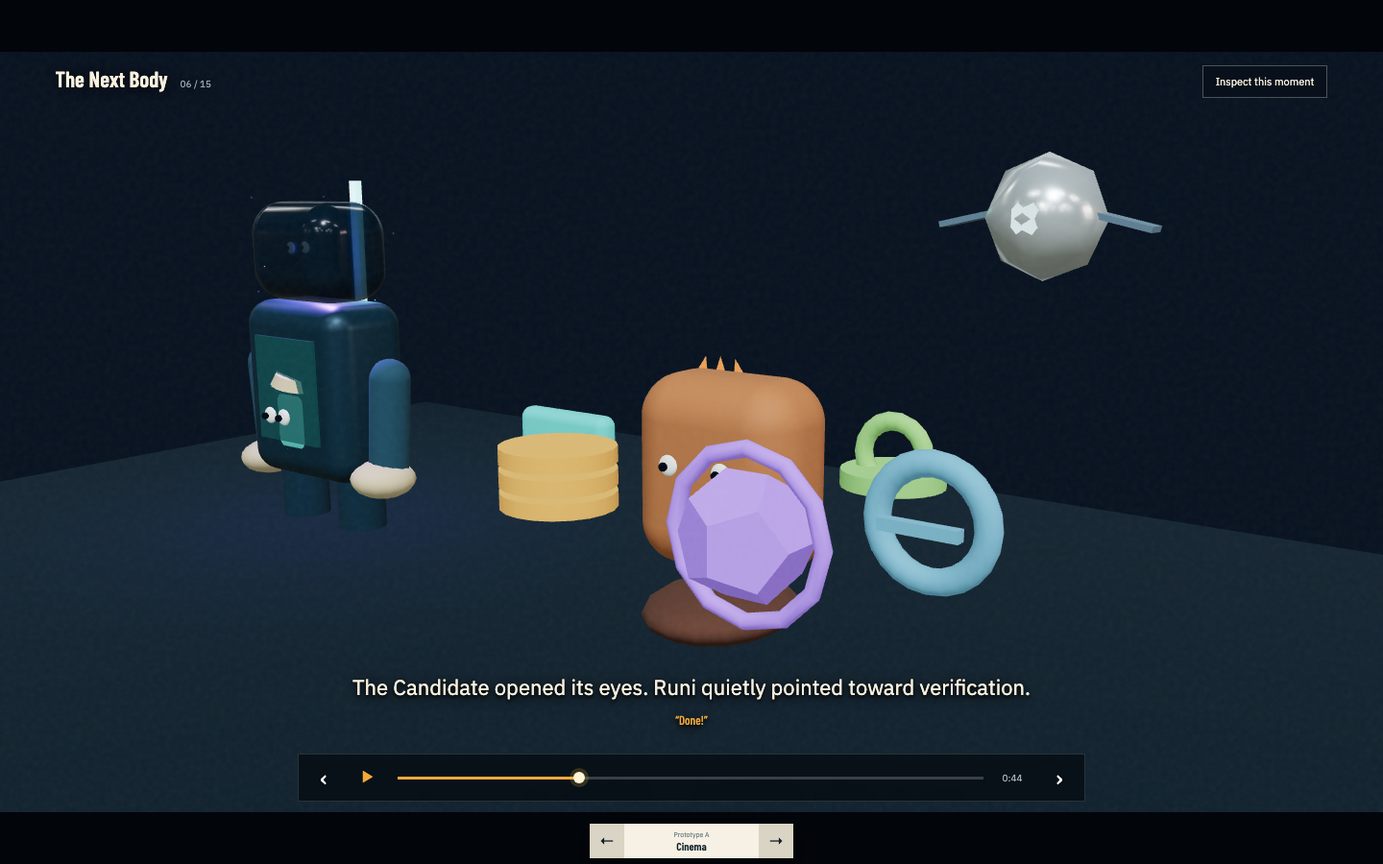
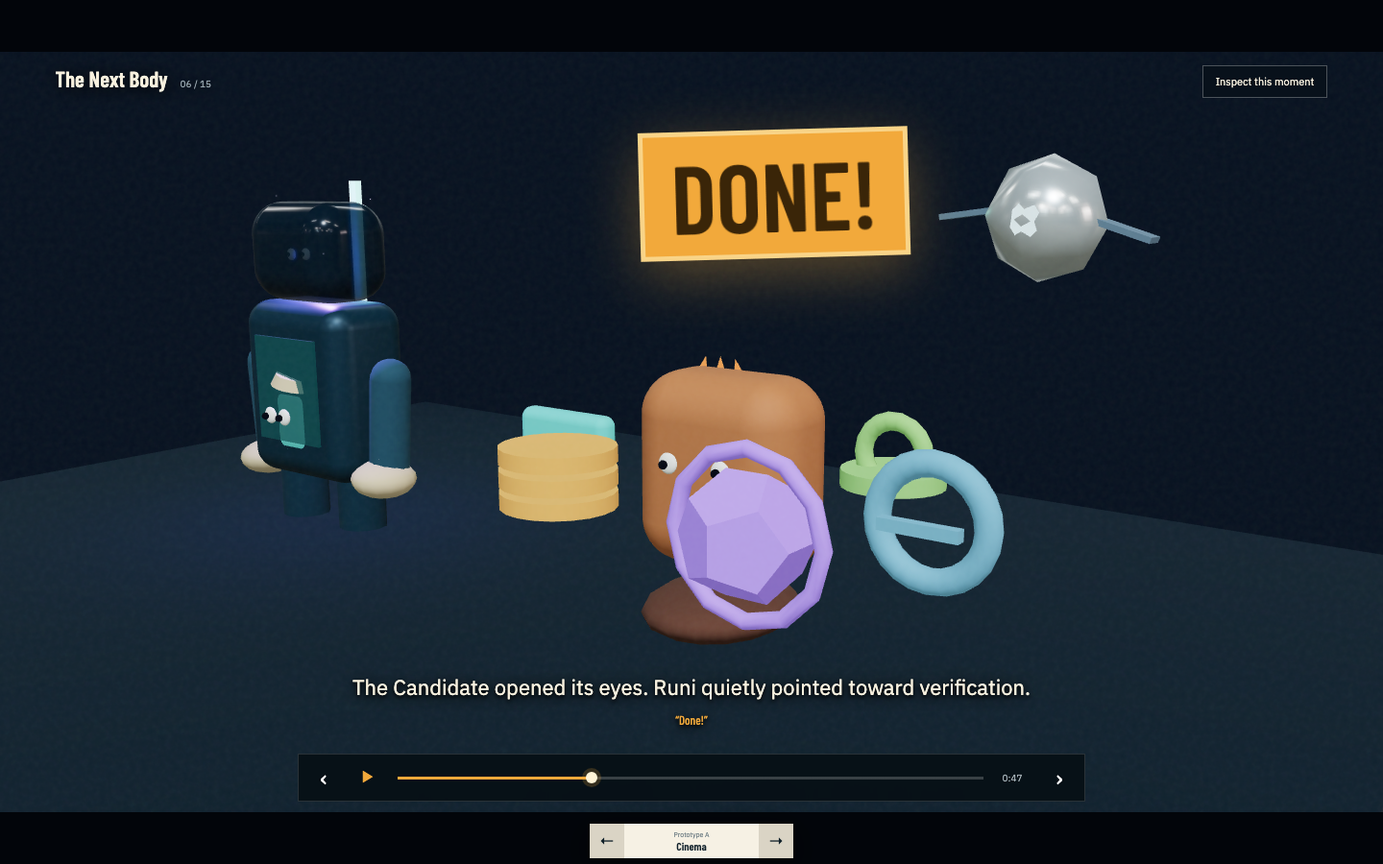
improve animatic character performances

diff --git a/spikes/3d-agentic-software-factory/src/story-prototype.jsx b/spikes/3d-agentic-software-factory/src/story-prototype.jsx
@@ -98,7 +98,7 @@ function Grain({ position = [0, 1.75, .5], scale = 1, awake = true }) {
   </group>;
 }
 
-function Runi({ position = [0, 0, 0], scale = 1, awake = true, kneel = false, showLumo = true, showGrain = true }) {
+function Runi({ position = [0, 0, 0], scale = 1, awake = true, kneel = false, showLumo = true, showGrain = true, gesture = "rest" }) {
   const ref = useRef();
   useFrame(({ clock }) => { if (ref.current) ref.current.rotation.y = Math.sin(clock.elapsedTime * .55) * .025; });
   return <group ref={ref} position={position} scale={scale} rotation={[kneel ? .08 : 0, 0, 0]}>
@@ -108,10 +108,13 @@ function Runi({ position = [0, 0, 0], scale = 1, awake = true, kneel = false, sh
       {showGrain && <Grain />}
       <RoundedBox args={[2.05, 1.55, 1.45]} radius={.5} smoothness={5} position={[0, 4.38, 0]}><meshPhysicalMaterial color="#1c3544" transmission={.32} transparent opacity={.86} roughness={.15} /></RoundedBox>
       {showLumo && <Lumo position={[0, 4.35, .05]} scale={.72} active={awake} />}
-      {[-1, 1].map((side) => <group key={side} position={[side * 1.55, 2.45, 0]} rotation={[0, 0, side * -.08]}>
+      {[-1, 1].map((side) => {
+        const point = gesture === "point" && side === 1;
+        const protect = gesture === "protect";
+        return <group key={side} position={[side * 1.55, 2.45, 0]} rotation={[point ? -1.1 : protect ? -.25 : 0, 0, point ? -.65 : side * (protect ? -.55 : -.08)]}>
         <mesh position={[0, -.65, 0]}><capsuleGeometry args={[.32, 1.35, 6, 12]} /><meshStandardMaterial color="#416979" metalness={.35} /></mesh>
         <mesh position={[0, -1.55, .12]} scale={[1.15, .7, 1.25]}><sphereGeometry args={[.42, 14, 10]} /><meshStandardMaterial color="#d9c29c" /></mesh>
-      </group>)}
+      </group>;})}
       {[-.72, .72].map((x) => <group key={x} position={[x, .65, 0]}>
         <mesh><capsuleGeometry args={[.38, 1.3, 6, 12]} /><meshStandardMaterial color="#294a59" metalness={.4} /></mesh>
         <mesh position={[0, -.95, .2]} scale={[1.25, .55, 1.8]}><sphereGeometry args={[.48, 14, 10]} /><meshStandardMaterial color="#172e3a" /></mesh>
@@ -156,7 +159,7 @@ function Drone({ position, verdict = "idle", index = 0, verifier = false }) {
   const ref = useRef();
   useFrame(({ clock }) => { if (ref.current) ref.current.position.y = position[1] + Math.sin(clock.elapsedTime * 2.2 + index) * .09; });
   const color = verdict === "pass" ? "#53c8bd" : verdict === "fail" ? "#f05b59" : "#d7e2e4";
-  return <group ref={ref} position={position}>
+  return <group ref={ref} position={position} scale={verifier ? 1 : .82 + (index % 4) * .07} rotation={[0, index * .2, (index % 3 - 1) * .08]}>
     <mesh><octahedronGeometry args={[verifier ? .52 : .38, 1]} /><meshStandardMaterial color="#e7ece9" metalness={.55} roughness={.25} /></mesh>
     <mesh position={[0, 0, .33]}><sphereGeometry args={[verifier ? .18 : .12, 12, 8]} /><meshBasicMaterial color={color} toneMapped={false} /></mesh>
     <mesh position={[-.55, 0, 0]} rotation={[0, 0, .22]}><boxGeometry args={[.7, .05, .22]} /><meshStandardMaterial color="#718897" /></mesh>
@@ -164,14 +167,71 @@ function Drone({ position, verdict = "idle", index = 0, verifier = false }) {
   </group>;
 }
 
-function Sauna({ working = false, cold = false }) {
+function Sauna({ working = false, cold = false, withLo = true }) {
   return <group>
     <mesh position={[0, -.15, 0]}><boxGeometry args={[14, .3, 10]} /><meshStandardMaterial color="#9f704c" /></mesh>
     {[-5.2, -3.8, 3.8, 5.2].map((x) => <mesh key={x} position={[x, .7, 2.6]}><boxGeometry args={[1.05, .22, 7]} /><meshStandardMaterial color="#d9c29c" roughness={.9} /></mesh>)}
-    <group position={[-3.8, .3, -1.8]}><ProductPart kind="calendar" color="#6ea7bf" /><Lo position={[0, 1.4, 0]} scale={.55} cold={cold} /></group>
+    <group position={[-3.8, .3, -1.8]}><ProductPart kind="calendar" color="#6ea7bf" />{withLo && <Lo position={[0, 1.4, 0]} scale={.55} cold={cold} />}</group>
     <group position={[0, .3, -1.8]}><ProductPart kind="heat" color={working ? "#f18a47" : "#61768a"} /><pointLight color="#ef7c39" intensity={working ? 28 : 0} distance={5} /></group>
     <group position={[3.8, .3, -1.8]}><ProductPart kind="billing" color="#53c8bd" /></group>
     {working && <Sparkles count={90} scale={[12, 7, 8]} size={5} speed={.18} color="#f7e0b3" opacity={.32} />}
+  </group>;
+}
+
+function ColdSaunaScene({ local }) {
+  let x;
+  if (local < .25) x = -5.2 + ease(local / .25) * 1.4;
+  else if (local < .5) x = -3.8 + ease((local - .25) / .25) * 3.8;
+  else if (local < .72) x = ease((local - .5) / .22) * 3.8;
+  else x = 3.8 - ease((local - .72) / .28) * 3.2;
+  const realizesFailure = local > .66;
+  return <group>
+    <Sauna cold withLo={false} />
+    <Lo position={[x, realizesFailure ? 1.15 : 1.75, -1.4]} scale={realizesFailure ? .7 : .9} cold={realizesFailure} />
+    <mesh position={[-3.8, 2.5, -1.8]} scale={local > .18 ? 1 : .01}><sphereGeometry args={[.16, 12, 8]} /><meshBasicMaterial color="#53c8bd" /></mesh>
+    <mesh position={[3.8, 2.5, -1.8]} scale={local > .52 ? 1 : .01}><sphereGeometry args={[.16, 12, 8]} /><meshBasicMaterial color="#53c8bd" /></mesh>
+    <mesh position={[0, 2.5, -1.8]} scale={realizesFailure ? 1 : .01}><sphereGeometry args={[.2, 12, 8]} /><meshBasicMaterial color="#f05b59" /></mesh>
+  </group>;
+}
+
+function SignalLine({ progress, from = [3, 2.2, 0], to = [-3.4, 4.2, 0] }) {
+  const start = new THREE.Vector3(...from);
+  const end = new THREE.Vector3(...to);
+  const point = start.clone().lerp(end, ease(progress));
+  return <group>
+    <Line points={[start, end]} color="#f05b59" transparent opacity={.35} lineWidth={2} />
+    <mesh position={point}><sphereGeometry args={[.2, 12, 8]} /><meshBasicMaterial color="#ff4f55" toneMapped={false} /></mesh>
+    <pointLight position={point} color="#ff4f55" intensity={18} distance={4} />
+  </group>;
+}
+
+function FailureScene({ local }) {
+  const failed = local > .48;
+  const signal = clamp((local - .58) / .24);
+  return <group>
+    <Workshop built={6} failure={failed} />
+    <Drone verifier position={[6.1, 4.2, 0]} verdict={failed ? "fail" : "idle"} />
+    {failed && <SignalLine progress={signal} />}
+  </group>;
+}
+
+function BehaviorDance({ local }) {
+  const travel = ease(clamp(local / .36));
+  const split = local > .32;
+  const reunited = local > .75;
+  return <group>
+    <Sauna working={local > .45} withLo={false} />
+    {!reunited && <Lo position={[-4 + travel * 4, 1.8, -1.1]} scale={.9} split={split} />}
+    {split && !reunited && <>
+      <Lo position={[-3.8, 1.65, -1.4]} scale={.48} />
+      <Lo position={[0, 1.7, -1.4]} scale={.48} />
+      <Lo position={[3.8, 1.65, -1.4]} scale={.48} />
+    </>}
+    {reunited && <Lo position={[0, 2.2, .4]} scale={1.15} />}
+    {local > .56 && <group position={[0, .3, 1.6]}>
+      <Lo position={[-1.2, 1, 0]} scale={.38} />
+      <Lo position={[1.2, 1, 0]} scale={.38} cold={local > .64 && local < .72} />
+    </group>}
   </group>;
 }
 
@@ -190,10 +250,10 @@ const PARTS = [
   ["calendar", "#53c8bd"], ["heat", "#f18a47"], ["billing", "#8bc56f"],
 ];
 
-function Workshop({ built = 0, failure = false, reborn = false }) {
+function Workshop({ built = 0, failure = false, reborn = false, gesture = "rest" }) {
   return <group>
     <mesh position={[0, -.2, 0]}><boxGeometry args={[18, .4, 13]} /><meshStandardMaterial color="#132b37" /></mesh>
-    <Runi position={[-3.4, 0, 0]} scale={.8} />
+    <Runi position={[-3.4, 0, 0]} scale={.8} gesture={gesture} />
     <Candidate position={[3, .15, 0]} scale={.82} anxious={failure} alive={!failure} />
     {PARTS.map(([kind, color], index) => {
       const angle = index / PARTS.length * Math.PI * 2;
@@ -205,11 +265,15 @@ function Workshop({ built = 0, failure = false, reborn = false }) {
   </group>;
 }
 
-function Archive({ dissolve = false }) {
+function Archive({ dissolve = false, recording = false }) {
   return <group>
     <mesh position={[0, -.2, 0]}><cylinderGeometry args={[8, 8, .4, 48]} /><meshStandardMaterial color="#0b3137" /></mesh>
-    <Runi position={[-3.8, 0, 0]} scale={.78} kneel />
+    <Runi position={[-3.8, 0, 0]} scale={.78} kneel gesture="protect" />
     <Candidate position={[2.7, .2, 0]} scale={.85} anxious={!dissolve} translucent={dissolve} />
+    {recording && <group position={[-3.7, 1.7, 1.6]} rotation={[-.2, 0, 0]}>
+      <RoundedBox args={[1.5, .95, .12]} radius={.08} smoothness={2}><meshStandardMaterial color="#d9c29c" emissive="#53c8bd" emissiveIntensity={.25} /></RoundedBox>
+      {[0, 1, 2].map((line) => <mesh key={line} position={[0, .22 - line * .22, .08]}><boxGeometry args={[1.05 - line * .16, .045, .02]} /><meshBasicMaterial color={line === 0 ? "#f05b59" : "#287d78"} /></mesh>)}
+    </group>}
     {Array.from({ length: 5 }, (_, index) => <group key={index} position={[-6 + index * 3, .4, -4.4]}><Candidate scale={.28} translucent /><Sparkles count={10} scale={1.8} color="#53c8bd" /></group>)}
     <Sparkles count={80} scale={[15, 8, 10]} size={2.8} speed={.12} color="#53c8bd" opacity={.45} />
   </group>;
@@ -220,6 +284,7 @@ function GraderFormation({ physiology = false }) {
     <mesh position={[0, -.2, 0]}><cylinderGeometry args={[9, 9, .35, 48]} /><meshStandardMaterial color="#dce3df" /></mesh>
     <Candidate position={[0, .1, 0]} scale={.75} anxious />
     <Lumo position={[-4.8, 3, 0]} scale={.8} mood="hurt" />
+    <mesh position={[-2.7, 2.5, 0]}><boxGeometry args={[.05, 5.2, 8.8]} /><meshPhysicalMaterial color="#d8f4f4" transmission={.6} transparent opacity={.22} roughness={.05} /></mesh>
     {Array.from({ length: 11 }, (_, index) => {
       const angle = Math.PI * .12 + index / 10 * Math.PI * 1.76;
       const fail = index === 2 || index === 10;
@@ -229,37 +294,72 @@ function GraderFormation({ physiology = false }) {
   </group>;
 }
 
+function LanguageBody({ color, index, x }) {
+  const shapes = [
+    <RoundedBox key="ts" args={[2.2, 2.7, 1.5]} radius={.28} smoothness={4} position={[0, 2, 0]}><meshStandardMaterial color={color} /></RoundedBox>,
+    <mesh key="rust" position={[0, 2, 0]}><dodecahedronGeometry args={[1.45, 0]} /><meshStandardMaterial color={color} metalness={.3} /></mesh>,
+    <mesh key="java" position={[0, 2, 0]}><capsuleGeometry args={[.95, 1.4, 8, 18]} /><meshStandardMaterial color={color} /></mesh>,
+    <group key="rails">{[0, 1, 2].map((tier) => <RoundedBox key={tier} args={[2.35 - tier * .35, .72, 1.5]} radius={.25} smoothness={4} position={[0, 1.2 + tier * .72, 0]}><meshStandardMaterial color={color} /></RoundedBox>)}</group>,
+  ];
+  return <group position={[x, 0, 0]}>
+    {shapes[index]}
+    <group position={[0, 2.25, .78]}><Eye x={-.3} /><Eye x={.3} /></group>
+    <Lo position={[0, 4.2, 0]} scale={.48} />
+    <mesh position={[0, .2, .15]} scale={[1.4, .5, 1.6]}><sphereGeometry args={[.55, 14, 8]} /><meshStandardMaterial color="#273943" /></mesh>
+  </group>;
+}
+
 function LanguageBodies() {
   const bodies = [
     ["#6ea7bf", -6], ["#d57545", -2], ["#e8b84d", 2], ["#b45b63", 6],
   ];
   return <group>
     <mesh position={[0, -.2, 0]}><boxGeometry args={[19, .4, 12]} /><meshStandardMaterial color="#172a34" /></mesh>
-    {bodies.map(([color, x], index) => <group key={color} position={[x, 0, 0]} scale={[.72 + index * .05, .72, .72]}>
-      <Runi showLumo={false} showGrain={false} />
-      <mesh position={[0, 4.35, .5]}><sphereGeometry args={[.55, 16, 12]} /><meshStandardMaterial color={color} emissive={color} emissiveIntensity={.8} /></mesh>
-      <Lo position={[0, 5.5, 0]} scale={.5} />
-    </group>)}
+    {bodies.map(([color, x], index) => <LanguageBody key={color} color={color} index={index} x={x} />)}
+  </group>;
+}
+
+function FinalNestedScene() {
+  return <group>
+    <mesh position={[0, -.2, 0]}><cylinderGeometry args={[8, 8, .35, 48]} /><meshStandardMaterial color="#5c3726" /></mesh>
+    <Runi position={[0, 0, -2]} scale={.95} gesture="protect" />
+    <group position={[0, 1.25, .9]} scale={.72}>
+      <Candidate translucent alive={false} />
+      <group position={[0, 1.5, .2]} scale={.28}>
+        <mesh position={[0, -.15, 0]}><boxGeometry args={[5, .2, 3.2]} /><meshStandardMaterial color="#a87850" /></mesh>
+        <ProductPart kind="calendar" color="#6ea7bf" position={[-1.3, 0, 0]} />
+        <ProductPart kind="heat" color="#f18a47" position={[0, 0, 0]} />
+        <ProductPart kind="billing" color="#53c8bd" position={[1.3, 0, 0]} />
+        <Lo position={[0, 1.2, 0]} scale={.7} />
+      </group>
+    </group>
+    <Sparkles count={90} scale={[13, 8, 9]} size={4} speed={.15} color="#f7d79f" opacity={.42} />
   </group>;
 }
 
 function StoryStage({ chapterIndex, local, variant, explore }) {
   const reveal = ease(local);
-  if (chapterIndex === 0) return <Sauna cold />;
+  if (chapterIndex === 0) return <ColdSaunaScene local={local} />;
   if (chapterIndex === 1) return <group><Lumo position={[0, 2.7, 0]} scale={1.25} /><Float speed={1.4} floatIntensity={1.2}>{Array.from({ length: 9 }, (_, i) => <mesh key={i} position={[Math.sin(i * 2) * 3.5, 1 + (i % 4), Math.cos(i) * 2]} rotation={[i, i * .4, 0]}><tetrahedronGeometry args={[.35 + (i % 3) * .15]} /><meshBasicMaterial color="#a98bff" wireframe /></mesh>)}</Float></group>;
   if (chapterIndex === 2) return <Runi position={[0, 0, 0]} scale={1.05} awake={local > .18} />;
-  if (chapterIndex === 3) return <group><Runi position={[-2.2, 0, 0]} scale={.9} /><mesh position={[2.7, 3.1, 0]} rotation={[0, 0, -.1]}><boxGeometry args={[1.4, 2.2, .28]} /><meshStandardMaterial color="#f2a93b" emissive="#f2a93b" emissiveIntensity={1.2} /></mesh><Candidate position={[5.5, .2, -2]} scale={.45} translucent /></group>;
-  if (chapterIndex === 4) return <Workshop built={Math.ceil(reveal * 6)} />;
-  if (chapterIndex === 5) return <group><Workshop built={6} failure={local > .48} /><Drone verifier position={[6.1, 4.2, 0]} verdict={local > .48 ? "fail" : "idle"} /></group>;
-  if (chapterIndex === 6) return <Archive dissolve={local > .56} />;
-  if (chapterIndex === 7) return <Workshop built={6} reborn />;
-  if (chapterIndex === 8) return <group><Sauna working /><Lo position={[-4 + reveal * 8, 1.9, 0]} scale={.9} split={local > .45} /></group>;
+  if (chapterIndex === 3) return <group>
+    <Runi position={[-2.2, 0, 0]} scale={.9} gesture="protect" />
+    <mesh position={[2.7, 3.1, 0]} rotation={[0, 0, -.1]}><boxGeometry args={[1.4, 2.2, .28]} /><meshStandardMaterial color="#f2a93b" emissive="#f2a93b" emissiveIntensity={1.2} /></mesh>
+    {PARTS.slice(0, 5).map(([kind, color], index) => <ProductPart key={kind} kind={kind} color={color} position={[1.1 + (index % 3) * 1.6, 5.4 - Math.floor(index / 3) * 1.4, -1]} />)}
+    <mesh position={[4.4, 2.3, -1.2]}><boxGeometry args={[.08, 4.8, 4.8]} /><meshPhysicalMaterial color="#dff8f8" transmission={.7} transparent opacity={.25} /></mesh>
+    <Candidate position={[5.2 + reveal * 3.5, .2, -2]} scale={.45} translucent />
+  </group>;
+  if (chapterIndex === 4) return <Workshop built={Math.ceil(reveal * 6)} gesture="protect" />;
+  if (chapterIndex === 5) return <FailureScene local={local} />;
+  if (chapterIndex === 6) return <Archive dissolve={local > .56} recording />;
+  if (chapterIndex === 7) return <Workshop built={6} reborn gesture="protect" />;
+  if (chapterIndex === 8) return <BehaviorDance local={local} />;
   if (chapterIndex === 9) return <GraderFormation />;
   if (chapterIndex === 10) return <GraderFormation physiology />;
-  if (chapterIndex === 11) return <Archive dissolve />;
-  if (chapterIndex === 12) return <group><Runi position={[-2.8, 0, 0]} scale={.9} kneel /><Lumo position={[2.6, 2.8, 0]} scale={1.05} mood="hurt" />{[-2.2, 0, 2.2].map((x, index) => <mesh key={x} position={[x + 2.4, .35, -3]}><cylinderGeometry args={[.7, .7, .22, 24]} /><meshStandardMaterial color={index === 1 ? "#f2a93b" : "#536b77"} emissive={index === 1 ? "#f2a93b" : "#000"} emissiveIntensity={.8} /></mesh>)}</group>;
+  if (chapterIndex === 11) return <Archive dissolve recording />;
+  if (chapterIndex === 12) return <group><Runi position={[-2.8, 0, 0]} scale={.9} kneel gesture="point" /><Lumo position={[2.6, 2.8, 0]} scale={1.05} mood="hurt" />{[-2.2, 0, 2.2].map((x, index) => <group key={x} position={[x + 2.4, .35, -3]}><mesh><cylinderGeometry args={[.7, .7, .22, 24]} /><meshStandardMaterial color={index === 1 ? "#f2a93b" : "#536b77"} emissive={index === 1 ? "#f2a93b" : "#000"} emissiveIntensity={.8} /></mesh>{index === 1 && <Line points={[[0,.2,0],[0,2.3,1],[1.2,3.2,1]]} color="#f2a93b" lineWidth={3} />}</group>)}</group>;
   if (chapterIndex === 13) return <LanguageBodies />;
-  return <group><Sauna working /><group position={[0, .4, -4]} scale={.42}><Runi /></group><Lo position={[0, 2, 0]} scale={1.1} /></group>;
+  return <FinalNestedScene />;
 }
 
 const cameraShots = [
@@ -340,14 +440,31 @@ function ChapterRail({ active, setTime }) {
   return <ol className="chapter-rail">{CHAPTERS.map((chapter, index) => <li key={chapter.id} className={index === active ? "active" : index < active ? "past" : ""}><button onClick={() => setTime(chapterStarts[index] + .01)}><span>{index + 1}</span><em>{chapter.title}</em></button></li>)}</ol>;
 }
 
+function BeatOverlay({ index, local }) {
+  if (index === 0) return <div className="diegetic-status sauna-status" aria-hidden="true"><span className={local > .18 ? "ok" : ""}>Booking</span><span className={local > .66 ? "bad" : ""}>Heater</span><span className={local > .52 ? "ok" : ""}>Billing</span></div>;
+  if (index === 3) return <div className="sealed-direction" aria-hidden="true"><strong>Resident stories</strong><span>11 accepted behaviors</span><span>C4 architecture</span><span>Scope + stack</span><em>Previous answers do not enter</em></div>;
+  if (index === 5) return <>
+    <div className="done-sign" style={{ opacity: local < .58 ? 1 : 0, transform: `translate(-50%, ${Math.min(0, -180 + local * 500)}px) rotate(${-3 + local * 4}deg)` }}>DONE!</div>
+    {local > .48 && <div className="toolbox-callout"><strong>npm</strong><span>toolbox empty</span></div>}
+  </>;
+  if (index === 6) return <div className="attempt-card"><span>Attempt 1</span><strong>Verification failed</strong><em>npm not found</em><small>recorded—not secretly patched</small></div>;
+  if (index === 9) return <div className="verdict-board"><strong>9</strong><span>green</span><strong className="red">2</strong><span>red</span><em>Lumo cannot reach the graders</em></div>;
+  if (index === 10) return <div className="truth-cards"><article><span>Physiology</span><strong>8 / 8</strong><em>complete</em></article><article><span>Behavior</span><strong>9 / 11</strong><em>incomplete</em></article></div>;
+  if (index === 12) return <div className="choice-labels"><span>Stop</span><span>Correct intent</span><span>Begin a child generation</span></div>;
+  if (index === 13) return <div className="language-verdicts">{[["TypeScript","10/11"],["Rust","9/11"],["Java","9/11"],["Rails","0/11"]].map(([name, score]) => <article key={name}><span>{name}</span><strong>{local > .55 ? "11/11" : score}</strong><em>{local > .55 ? "fresh regrade" : "baseline"}</em></article>)}</div>;
+  if (index === 14) return <div className="final-nesting"><span>Runi · embodied harness</span><span>Candidate · generated body</span><span>Sauna · expressed behavior</span></div>;
+  return null;
+}
+
 function App() {
   const initialParams = useMemo(() => new URLSearchParams(location.search), []);
   const initialChapter = clamp(Number(initialParams.get("chapter") ?? 0), 0, CHAPTERS.length - 1);
+  const initialProgress = clamp(Number(initialParams.get("progress") ?? .01));
   const [variant, setVariant] = useState(() => initialParams.get("variant")?.toUpperCase() in VARIANTS ? initialParams.get("variant").toUpperCase() : "A");
   const [inspect, setInspect] = useState(false);
   const [explore, setExplore] = useState(false);
   const [started, setStarted] = useState(initialParams.has("chapter"));
-  const film = useFilmClock(chapterStarts[initialChapter] + (initialParams.has("chapter") ? .01 : 0));
+  const film = useFilmClock(chapterStarts[initialChapter] + (initialParams.has("chapter") ? CHAPTERS[initialChapter].duration * initialProgress : 0));
   const { index, chapter, local } = chapterAt(film.time);
   useEffect(() => { const listener = () => setVariant(new URLSearchParams(location.search).get("variant")?.toUpperCase() in VARIANTS ? new URLSearchParams(location.search).get("variant").toUpperCase() : "A"); addEventListener("popstate", listener); return () => removeEventListener("popstate", listener); }, []);
   useEffect(() => { if (inspect) film.setPlaying(false); }, [inspect]);
@@ -363,6 +480,7 @@ function App() {
       {variant === "B" && <ChapterRail active={index} setTime={(time) => { film.setTime(time); setStarted(true); }} />}
       {variant === "C" && <><div className="anatomy-legend" aria-hidden="true"><span className="brain">Lumo<i /></span><span className="spine">Direction<i /></span><span className="memory">Grain<i /></span><span className="senses">Evidence<i /></span></div><aside className="cutaway-pulse"><small>Inside this moment</small><strong>{chapter.title}</strong><p>{chapter.evidence}</p><dl><div><dt>Physiology</dt><dd>{index >= 10 ? "8 / 8" : "observing"}</dd></div><div><dt>Behavior</dt><dd>{index >= 9 ? "9 / 11" : "forming"}</dd></div></dl></aside></>}
       {started && <>
+        <BeatOverlay index={index} local={local} />
         <header className="story-header"><div><strong>The Next Body</strong><span>{String(index + 1).padStart(2, "0")} / {CHAPTERS.length}</span></div><button onClick={() => setInspect(true)}>Inspect this moment</button></header>
         <section className="caption" aria-live="polite"><p>{chapter.caption}</p><span>{chapter.title}</span></section>
         <div className="transport">

diff --git a/spikes/3d-agentic-software-factory/src/story-prototype.css b/spikes/3d-agentic-software-factory/src/story-prototype.css
@@ -39,6 +39,17 @@ button { -webkit-tap-highlight-color: transparent; }
 .transport { position: absolute; z-index: 7; left: 50%; bottom: clamp(32px, 5vw, 65px); transform: translateX(-50%); width: min(820px, calc(100% - 36px)); display: grid; grid-template-columns: 34px 42px 1fr 48px 34px; align-items: center; gap: 8px; padding: 7px 9px; color: #edf2ef; background: rgba(3,9,14,.74); border: 1px solid rgba(255,255,255,.14); backdrop-filter: blur(16px); }
 .transport button { width: 34px; height: 34px; color: white; border: 0; background: transparent; cursor: pointer; font-size: 23px; }.transport button.play { width: 42px; color: var(--ember); font-size: 14px; }.transport time { color: #aab6bc; font-size: 10px; text-align: center; }
 .transport input { width: 100%; height: 3px; appearance: none; background: linear-gradient(90deg, var(--ember) var(--progress), rgba(255,255,255,.2) var(--progress)); }.transport input::-webkit-slider-thumb { width: 12px; height: 12px; appearance: none; border-radius: 50%; background: #fff4d7; box-shadow: 0 0 0 4px rgba(242,169,59,.2); }
+.diegetic-status, .sealed-direction, .done-sign, .toolbox-callout, .attempt-card, .verdict-board, .truth-cards, .choice-labels, .language-verdicts, .final-nesting { position: absolute; z-index: 4; pointer-events: none; }
+.sauna-status { top: 25%; left: 50%; display: flex; gap: 8px; transform: translateX(-50%); }.sauna-status span { min-width: 70px; padding: 7px 9px; color: #75848c; background: rgba(4,11,17,.76); border-bottom: 3px solid #52636c; text-align: center; font-size: 9px; }.sauna-status span.ok { color: #dff8ef; border-color: var(--teal); }.sauna-status span.bad { color: #ffd9d1; border-color: var(--failure); }
+.sealed-direction { top: 20%; right: 8%; width: 185px; display: grid; gap: 6px; padding: 14px; color: #25333a; background: rgba(232,218,185,.92); transform: rotate(-2deg); box-shadow: 0 10px 38px rgba(0,0,0,.35); }.sealed-direction strong { font: 600 18px "Barlow Condensed"; }.sealed-direction span { padding-top: 5px; border-top: 1px solid #afa58d; font-size: 9px; }.sealed-direction em { margin-top: 8px; color: #9f3f3d; font: 600 10px "IBM Plex Sans"; }
+.done-sign { top: 15%; left: 56%; padding: 12px 28px; color: #3a2508; background: var(--ember); border: 5px solid #f9d488; box-shadow: 0 16px 60px rgba(242,169,59,.35); font: 600 clamp(44px, 8vw, 100px)/1 "Barlow Condensed"; transition: opacity .2s; }
+.toolbox-callout { top: 46%; right: 8%; width: 132px; padding: 11px; color: #f7eee0; background: #6f4b3d; border: 2px solid #cda77f; transform: rotate(3deg); }.toolbox-callout strong, .toolbox-callout span { display: block; }.toolbox-callout strong { font: 600 25px "Barlow Condensed"; }.toolbox-callout span { color: #ffb6aa; font-size: 9px; }
+.attempt-card { top: 20%; left: 50%; width: 230px; padding: 15px 18px; color: #26343a; background: #d9c29c; transform: translateX(-50%) rotate(-1deg); box-shadow: 0 10px 40px rgba(0,0,0,.38); }.attempt-card span, .attempt-card strong, .attempt-card em, .attempt-card small { display: block; }.attempt-card span { color: #5d7076; font-size: 9px; }.attempt-card strong { margin-top: 5px; font: 600 23px "Barlow Condensed"; }.attempt-card em { margin: 8px 0; color: #b54443; font: 600 14px "IBM Plex Sans"; }.attempt-card small { padding-top: 8px; border-top: 1px solid #b1a184; color: #667579; font-size: 8px; }
+.verdict-board { top: 17%; left: 50%; display: grid; grid-template-columns: auto auto auto auto; align-items: baseline; gap: 5px 8px; padding: 9px 14px; color: #143036; background: rgba(238,240,231,.9); transform: translateX(-50%); }.verdict-board strong { color: #268477; font: 600 27px "Barlow Condensed"; }.verdict-board strong.red { color: var(--failure); }.verdict-board span { font-size: 8px; }.verdict-board em { grid-column: 1 / -1; padding-top: 6px; border-top: 1px solid #abb7b3; color: #607075; font-size: 8px; }
+.truth-cards { top: 18%; left: 50%; display: flex; gap: 12px; transform: translateX(-50%); }.truth-cards article { width: 150px; padding: 13px; color: #153039; background: #dbe7df; border-top: 5px solid var(--teal); box-shadow: 0 10px 35px rgba(0,0,0,.25); }.truth-cards article:last-child { border-color: var(--failure); }.truth-cards span, .truth-cards strong, .truth-cards em { display: block; }.truth-cards span { font-size: 9px; }.truth-cards strong { margin: 4px 0; font: 600 30px "Barlow Condensed"; }.truth-cards em { color: #6b7a7d; font-size: 8px; }
+.choice-labels { left: 50%; bottom: 31%; width: min(620px, 72%); display: grid; grid-template-columns: repeat(3, 1fr); gap: 12px; transform: translateX(-50%); }.choice-labels span { padding: 8px 6px; color: #dfe9e6; background: rgba(6,16,23,.82); border-top: 3px solid #536b77; text-align: center; font-size: 9px; }.choice-labels span:nth-child(2) { color: #2d210d; background: var(--ember); border-color: #ffe09c; font-weight: 600; }
+.language-verdicts { left: 50%; bottom: 27%; width: min(760px, 78%); display: grid; grid-template-columns: repeat(4, 1fr); gap: 8px; transform: translateX(-50%); }.language-verdicts article { padding: 8px; color: #dbe6e2; background: rgba(5,14,20,.82); text-align: center; }.language-verdicts span, .language-verdicts strong, .language-verdicts em { display: block; }.language-verdicts span { font-size: 8px; }.language-verdicts strong { margin: 2px 0; color: var(--ember); font: 600 20px "Barlow Condensed"; }.language-verdicts em { color: #84979e; font-size: 7px; }
+.final-nesting { top: 24%; right: 7%; display: grid; gap: 7px; width: 190px; }.final-nesting span { padding: 8px 10px; color: #2c2317; background: rgba(236,219,181,.9); border-left: 4px solid var(--ember); font-size: 9px; box-shadow: 0 6px 20px rgba(0,0,0,.18); }.final-nesting span:nth-child(2) { margin-left: 18px; border-color: #c67d4e; }.final-nesting span:nth-child(3) { margin-left: 36px; border-color: var(--teal); }
 .inspection { position: absolute; z-index: 14; top: 0; right: 0; width: min(430px, 100%); height: 100%; padding: clamp(40px, 6vw, 78px) clamp(24px, 4vw, 48px); overflow: auto; color: #17242c; background: #e5ddc9; box-shadow: -20px 0 80px rgba(0,0,0,.48); }
 .inspection-close { position: absolute; top: 20px; right: 22px; width: 36px; height: 36px; color: #17242c; border: 1px solid #9e9a8d; background: transparent; cursor: pointer; font-size: 25px; }.inspection-character { display: flex; align-items: center; gap: 12px; }.inspection-character span { font: 600 54px/1 "Barlow Condensed"; }.inspection-character i { width: 45px; height: 1px; background: #17242c; }
 .inspection-kicker { margin: 28px 0 4px; color: #47636b; font-size: 11px; }.inspection h2 { margin: 0; font: 600 42px/1 "Barlow Condensed"; letter-spacing: -.02em; }.inspection-meaning { margin: 20px 0; font-size: 15px; line-height: 1.55; }.inspection dl { margin: 0; border-top: 1px solid #a9a494; }.inspection dl div { display: grid; grid-template-columns: 70px 1fr; gap: 12px; padding: 10px 0; border-bottom: 1px solid #b9b3a3; }.inspection dt { color: #597079; font-size: 10px; }.inspection dd { margin: 0; overflow-wrap: anywhere; font-size: 10px; }
@@ -67,6 +78,8 @@ button { -webkit-tap-highlight-color: transparent; }
   .inspection { top: auto; bottom: 0; width: 100%; height: min(72svh, 620px); padding: 50px 24px 30px; border-top: 5px solid var(--teal); }
   .inspection h2 { font-size: 34px; }.inspection-character span { font-size: 42px; }
   .explore-button { right: 14px; bottom: 114px; }.explore-help { right: 14px; bottom: 89px; }
+  .sauna-status { top: 18%; }.sauna-status span { min-width: 58px; padding: 6px 4px; font-size: 7px; }.sealed-direction { top: 18%; right: 14px; width: 145px; }.done-sign { top: 18%; left: 50%; font-size: 48px; }.toolbox-callout { top: 34%; right: 12px; width: 105px; }.attempt-card { top: 17%; width: 190px; }.truth-cards { top: 16%; gap: 6px; }.truth-cards article { width: 118px; padding: 9px; }.truth-cards strong { font-size: 24px; }.choice-labels { bottom: 28%; width: calc(100% - 24px); gap: 4px; }.choice-labels span { font-size: 7px; }.language-verdicts { bottom: 26%; width: calc(100% - 18px); gap: 3px; }.language-verdicts article { padding: 6px 2px; }.language-verdicts strong { font-size: 16px; }
+  .final-nesting { top: 16%; right: 14px; width: 145px; }.final-nesting span { padding: 6px; font-size: 7px; }
   .variant-B .film-stage, .variant-C .film-stage, .variant-C.is-inspecting .film-stage { inset: 0; }
   .variant-B .chapter-rail { inset: auto 0 90px; width: 100%; height: 47px; display: flex; gap: 5px; padding: 8px 12px; overflow-x: auto; background: rgba(223,214,192,.94); }.chapter-rail::before, .chapter-rail li::before, .chapter-rail button em { display: none; }.chapter-rail button { display: block; min-height: 29px; padding: 0; }.chapter-rail button span { width: 29px; height: 29px; }.variant-B .caption { bottom: 148px; }.variant-B .transport { bottom: 51px; }
   .variant-C .inspection { width: 100%; height: min(72svh, 620px); }.anatomy-legend, .cutaway-pulse { display: none; }.variant-C .caption { bottom: 112px; }.variant-C .transport { bottom: 54px; }

diff --git a/spikes/3d-agentic-software-factory/README.md b/spikes/3d-agentic-software-factory/README.md
@@ -34,7 +34,7 @@ npm run spike
 
 Open <http://127.0.0.1:5173/?variant=A>.
 
-Use `?chapter=0` through `?chapter=14` to open a specific beat for review or screenshots. `Alt` + left/right arrow changes variants.
+Use `?chapter=0` through `?chapter=14` to open a specific beat. Add `&progress=.5` to select a deterministic point inside that performance for review or screenshots. `Alt` + left/right arrow changes variants.
 
 Play, pause, scrub, or jump between chapters. **Inspect this moment** freezes playback and reveals the historical evidence behind the dramatic metaphor. The final scene unlocks orbit-based exploration without making navigation a prerequisite for understanding the story.
 
